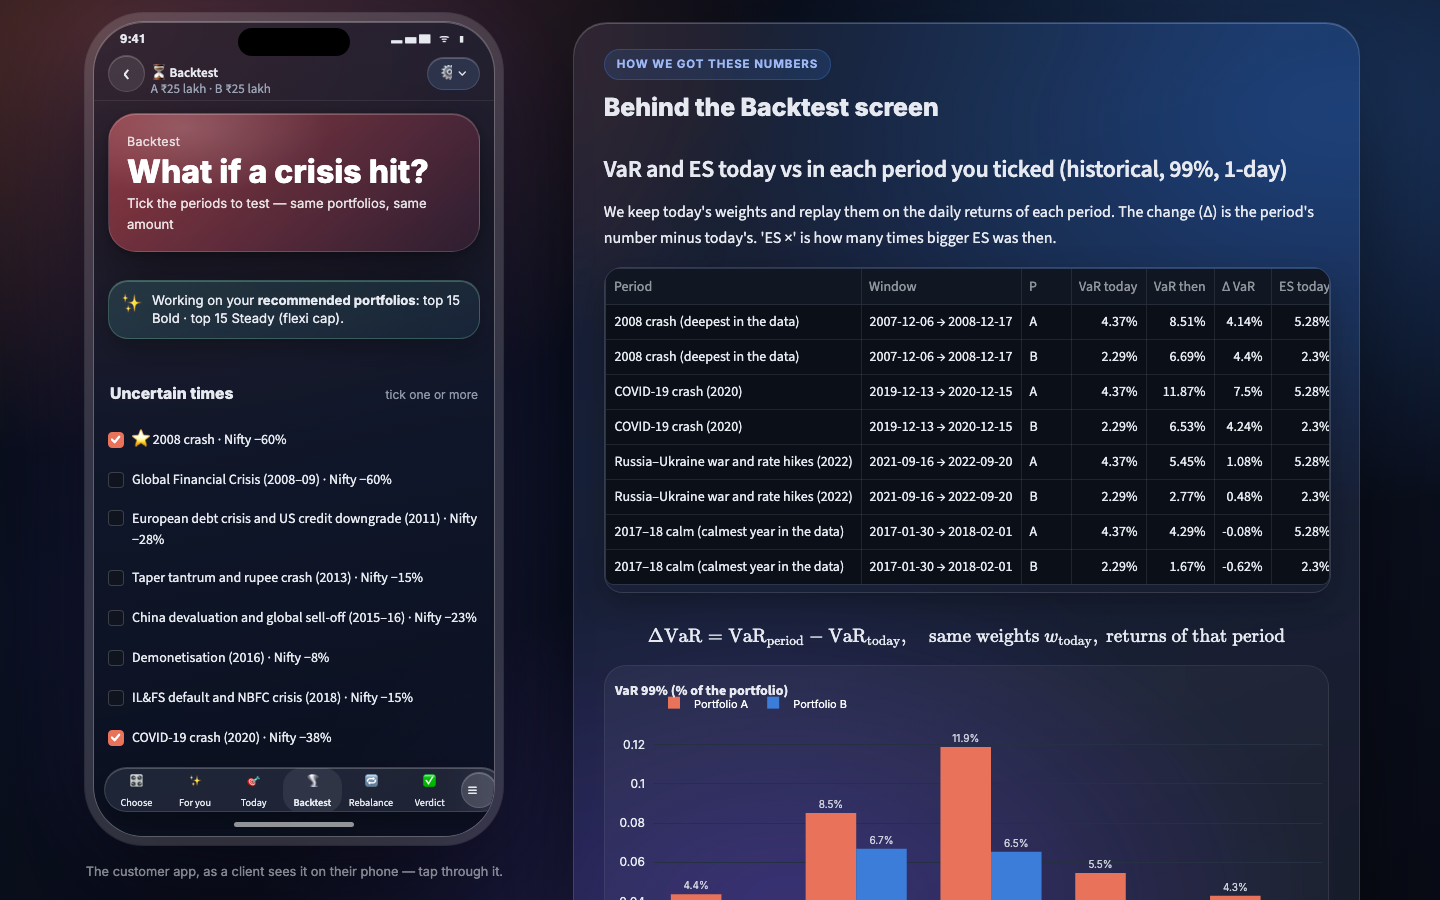
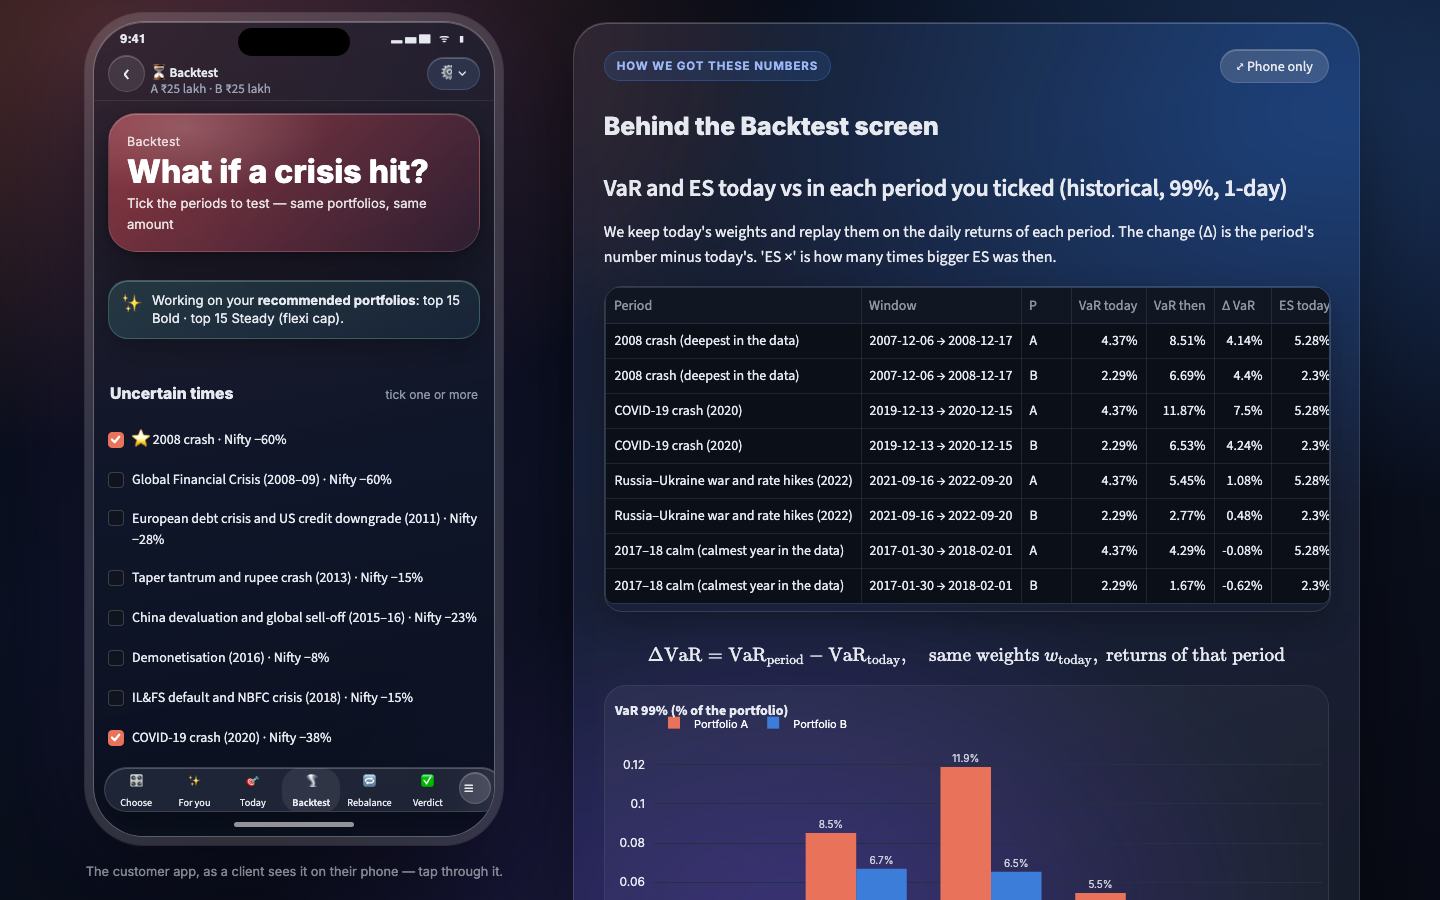
Phone-only view for presenting: a bigger phone in the middle, with a pinned button back to the normal view

diff --git a/src/ui.py b/src/ui.py
@@ -694,12 +694,14 @@ SPATIAL_CSS = """
 .ptm-working-head { color: #9DB8F5 !important; display: inline-block; padding: 5px 12px; border-radius: 999px;
   background: rgba(59,125,216,.16); border: 1px solid rgba(59,125,216,.35); }
 .ptm-working-title { margin-top: .5rem !important; }
+.st-key-ptm_working_top { justify-content: space-between; }
+.st-key-ptm_working_top [class*="st-key-ptm_present_on"] button { min-height: 2.1rem; padding: 0 .95rem; font-size: .85rem; }
 
 /* the ☰ menu: a compact round button that stays inside the tab bar */
-.st-key-ptm_tabs { overflow: hidden; }
-.st-key-ptm_tabs [data-testid="stPopover"], .st-key-ptm_tabs [data-testid="stPopover"] > div { width: 38px !important; max-width: 38px !important; }
-.st-key-ptm_tabs > div:has([data-testid="stPopover"]) { flex: 0 0 40px !important; margin-right: 2px; }
-.st-key-ptm_tabs [data-testid="stPopover"] button { width: 36px !important; height: 36px !important; min-height: 36px !important;
+.st-key-ptm_tabs { overflow: hidden; padding-right: 6px !important; }
+.st-key-ptm_tabs [data-testid="stPopover"], .st-key-ptm_tabs [data-testid="stPopover"] > div { width: 34px !important; max-width: 34px !important; }
+.st-key-ptm_tabs > div:has([data-testid="stPopover"]) { flex: 0 0 36px !important; margin-right: 4px; }
+.st-key-ptm_tabs [data-testid="stPopover"] button { width: 32px !important; height: 32px !important; min-height: 32px !important;
   border-radius: 50% !important; padding: 0 !important; justify-content: center; }
 .st-key-ptm_tabs [data-testid="stPopover"] button [data-testid="stIconMaterial"] { display: none !important; }
 
@@ -729,6 +731,20 @@ div:has(> .st-key-ptm_screen) { height: clamp(360px, calc(100vh - 205px), 660px)
   .ptm-homebar { display: none; }
   .block-container { padding-bottom: 7.5rem !important; }
 }
+</style>
+"""
+
+PRESENT_CSS = """
+<style>
+/* phone-only view for presenting: a bigger phone in the middle, nothing else */
+.st-key-ptm_phone { width: 460px !important; transform: none !important; }
+.st-key-ptm_phone:hover { transform: none !important; }
+div:has(> .st-key-ptm_screen) { height: clamp(420px, calc(100vh - 190px), 860px) !important; }
+.st-key-ptm_present_off { position: fixed !important; top: 18px; right: 22px; z-index: 1000; width: auto !important; }
+.st-key-ptm_present_off button { padding: 0 1.1rem !important; background: rgba(20,26,42,.7) !important; }
+.ptm-caption-phone { display: none; }
+.st-key-ptm_stage [data-testid="stHorizontalBlock"] > [data-testid="stColumn"]:first-child { position: static !important; }
+.ptm-footer { display: none; }
 </style>
 """
 
@@ -854,7 +870,10 @@ def setup_frames(pages: dict, page_title: str, controls) -> None:
         return
     st.html(DEVICE_CSS)
     st.html(SPATIAL_CSS)
-    show_working = s.get("show_backing", True)
+    presenting = s.get("present_mode", False)
+    if presenting:
+        st.html(PRESENT_CSS)
+    show_working = s.get("show_backing", True) and not presenting
     stage = st.container(key="ptm_stage")
     with stage:
         cols = st.columns([0.36, 0.64], gap="large") if show_working else st.columns([1, 1.2, 1])[1:2]
@@ -866,14 +885,24 @@ def setup_frames(pages: dict, page_title: str, controls) -> None:
                 if confirmed:
                     _tab_bar(pages, page_title)
                 st.html("<div class='ptm-homebar'><span></span></div>")
-            st.html("<div class='ptm-caption-phone'>The customer app, as a client sees it on their phone — tap through it.</div>")
+            if presenting:
+                st.button("⤡ Back to normal view", key="ptm_present_off",
+                          on_click=lambda: s.update(present_mode=False))
+            else:
+                st.html("<div class='ptm-caption-phone'>The customer app, as a client sees it on their phone — tap through it.</div>")
+                if not show_working:
+                    st.button("⤢ Phone only (for presenting)", key="ptm_present_on", width="stretch",
+                              on_click=lambda: s.update(present_mode=True))
         working = None
         if show_working:
             with cols[1]:
                 working = st.container(key="ptm_working")
                 with working:
-                    st.html(f"<div class='ptm-working-head'>How we got these numbers</div>"
-                            f"<div class='ptm-working-title'>Behind the {page_title.split(' — ')[0]} screen</div>")
+                    with st.container(horizontal=True, vertical_alignment="center", key="ptm_working_top"):
+                        st.html("<div class='ptm-working-head'>How we got these numbers</div>")
+                        st.button("⤢ Phone only", key="ptm_present_on", help="Hide this panel and enlarge the phone, for presenting",
+                                  on_click=lambda: s.update(present_mode=True))
+                    st.html(f"<div class='ptm-working-title'>Behind the {page_title.split(' — ')[0]} screen</div>")
     s["_frames"] = {"client": screen, "working": working}
 
 

diff --git a/tests/test_app.py b/tests/test_app.py
@@ -192,3 +192,15 @@ def test_back_button_returns_to_previous_screen():
     assert not at.exception
     assert "Top 15 Bold" in text(at)
     assert at.session_state["is_phone"]  # the phone layout survives page switches
+
+
+def test_phone_only_presenting_view_and_back():
+    at = app()
+    at.switch_page("views/05_weights.py").run()
+    next(b for b in at.button if b.key == "ptm_present_on").click().run()
+    assert not at.exception and at.session_state["present_mode"]
+    assert "Behind the Today screen" not in text(at)
+    at.switch_page("views/06_test1.py").run()  # stays in phone-only view while moving around
+    assert not at.exception and at.session_state["present_mode"]
+    next(b for b in at.button if b.key == "ptm_present_off").click().run()
+    assert not at.exception and not at.session_state["present_mode"]
